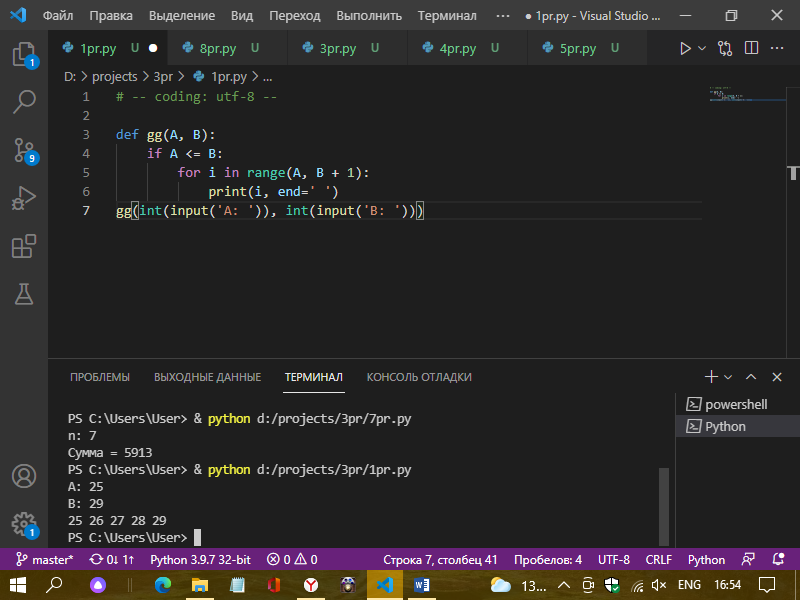
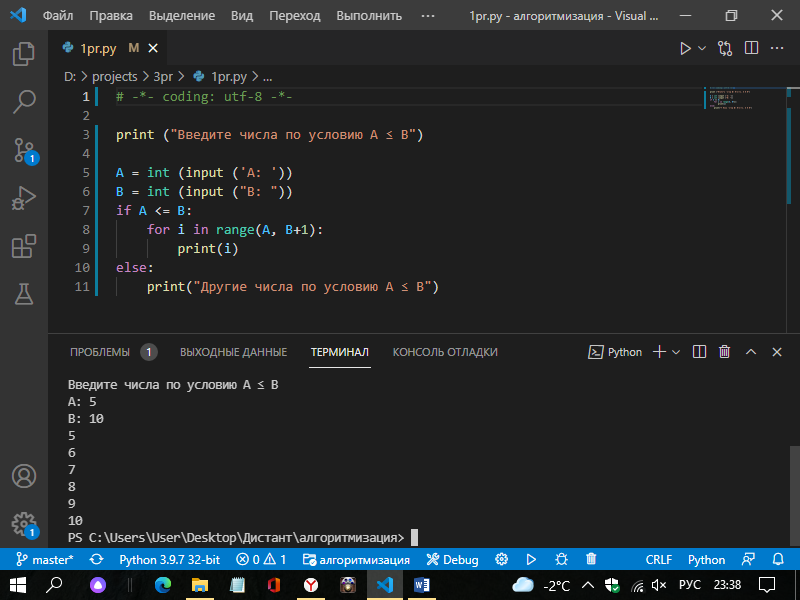
исправлено

diff --git a/3pr/10pr.py b/3pr/10pr.py
@@ -1,10 +1,17 @@
-# -- coding: utf-8 --
+# -*- coding: utf-8 -*-
 
-def fib(n, k):
-    G1, G2 = 1, 1
-    m = [G1, G2]
-    for i in range(2, n):
-        G1, G2 = G2, G1 + G2
-        m.append(G2)
-    print(sum(m[k-1:]))  
-fib(int(input('Кол-во чисел из ряда: ')), int(input('Номер с которого начать: ')))
+def s_f():
+    N = int(input("N: "))
+    k = int(input("k: "))
+    past_num = 0
+    present_num = 1
+    sumn = 0
+    for i in range(2, N+1):
+        if k <= i:
+            sumn += present_num
+        time = present_num
+        present_num += past_num
+        past_num = time
+    return sumn
+
+print(s_f())

diff --git a/3pr/2pr.py b/3pr/2pr.py
@@ -1,10 +1,14 @@
-# -- coding: utf-8 --
+# -*- coding: utf-8 -*-
 
-def n2(A, B):
-    if A < B:
-        for i in range(A, B + 1):
-            print(i, end=' ')
+def ABtoBA():
+    a = int(input("A: "))
+    b = int(input("B: "))
+    if a < b:
+        for i in range(a, b+1):
+            print(i)
     else:
-        for i in range(A, B - 1, -1):
-            print(i, end=' ')
-n2(int(input('A: ')), int(input('B: ')))
+        for i in range(a, b-1, -1):
+            print(i)
+            
+    return "Завершение"
+print(ABtoBA())

diff --git a/3pr/9pr.py b/3pr/9pr.py
@@ -1,9 +1,12 @@
-# -- coding: utf-8 --
+# -*- coding: utf-8 -*-
 
-def fib(n):
-    summ = 0
-    G1, G2 = 1, 1
-    for i in range(2, n):
-        G1, G2 = G2, G1 + G2
-    print(f'Сумма {n} элементов:', G2)
-fib(int(input('Кол-во чисел из ряда: ')))
+n = int (input("Номер элемента ряда Фибоначчи: " ))
+fib1 = 1
+fib2 = 1
+i = 0
+while i < n - 2:
+    fibsum = fib1 + fib2
+    fib1 = fib2
+    fib2 = fibsum
+    i = i + 1
+print("Значение этого элемента:", fib2)

diff --git a/3pr/4pr.py b/3pr/4pr.py
@@ -1,10 +1,10 @@
-# -- coding: utf-8 --
+# -*- coding: utf-8 -*-
 
-def chis(N):
-    summ = 0
-    k = 1
-    for i in range(N):
-        summ += int(input(f'Число {k}: '))
-        k += 1
-    print('Сумма: ', summ)
-chis(int(input('Кол-во чисел: ')))
+def sumn():
+    sumn = 0
+
+    for i in range(int(input("количество чисел: "))):
+        sumn += int(input(f"Введите число: "))
+    return "Сумма = " + str(sumn)
+
+print(sumn())

diff --git a/3pr/1pr.py b/3pr/1pr.py
@@ -1,7 +1,11 @@
-# -- coding: utf-8 --
+# -*- coding: utf-8 -*-
 
-def gg(A, B):
-    if A <= B:
-        for i in range(A, B + 1):
-            print(i, end=' ')
-gg(int(input('A: ')), int(input('B: ')))
+print ("Введите числа по условию A ≤ B")
+
+A = int (input ('A: '))
+B = int (input ("B: "))
+if A <= B:
+	for i in range(A, B+1):
+		print(i)
+else:
+	print("Другие числа по условию A ≤ B")

diff --git a/3pr/8pr.py b/3pr/8pr.py
@@ -1,10 +1,8 @@
-# -- coding: utf-8 --
+# -*- coding: utf-8 -*-
 
-def n8(n):
-    if n <= 9:
-        for i in range(1, n + 1):
-            for j in range(1, i + 1):
-                print(j, end='')
-            print()
-n8(int(input('n: ')))
+n = int (input("натуральное число по условию n ≤ 9: "))
+for i in range(1, n + 1):
+    for j in range(1, i + 1):
+        print(j, sep='', end='')
+    print()
   

diff --git a/3pr/7pr.py b/3pr/7pr.py
@@ -1,10 +1,11 @@
 # -- coding: utf-8 --
 
-def sumf(n):
-    f = 1
-    s = 0
-    for i in range(1, n + 1):
-        f *= i
-        s += f
-    print('Сумма =', s)
-sumf(int(input('n: ')))           
+def nat():
+	res=1
+	sum=0
+	n=int(input('натуральное n: '))
+	for i in range(1,n+1):
+		res*=i
+		sum+=res 
+	return  sum
+print(nat())          

diff --git a/3pr/3pr.py b/3pr/3pr.py
@@ -1,8 +1,6 @@
-# -- coding: utf-8 --
+# -*- coding: utf-8 -*-
 
-def necht(A, B):
-    if A > B:
-        for i in range(A, B - 1, -1):
-            if i % 2 != 0:
-                print(i, end=' ')
-necht(int(input('A: ')), int(input('B: ')))
+A = int(input("A: "))
+B = int(input("B: "))
+for i in range(A - A % 2 -1, B -1, -2):
+    print(i)

diff --git a/3pr/6pr.py b/3pr/6pr.py
@@ -1,7 +1,8 @@
-# -- coding: utf-8 --
-def fact(n):
-    f = 1
-    for i in range(1, n + 1):
-        f *= i
-    print(f'Факториал {n} =', f)
-fact(int(input('n: ')))       
+# -*- coding: utf-8 -*-
+
+n = int (input("натуральное n: "))
+f= 1
+while n > 1:
+	f = f * n
+	n = n - 1 
+print (f)       

diff --git a/3pr/5pr.py b/3pr/5pr.py
@@ -1,8 +1,9 @@
 # -- coding: utf-8 --
 
-def nat(n):
-    summ = 0
-    for i in range(1, n + 1):
-        summ += i**3
-    print(summ)
-nat(int(input('n: ')))     
+def natur():
+	sum=0
+	n=int(input('натуральное n: '))
+	for i in range(1,n+1):
+		sum+=i**3
+	return sum
+print(natur())    
